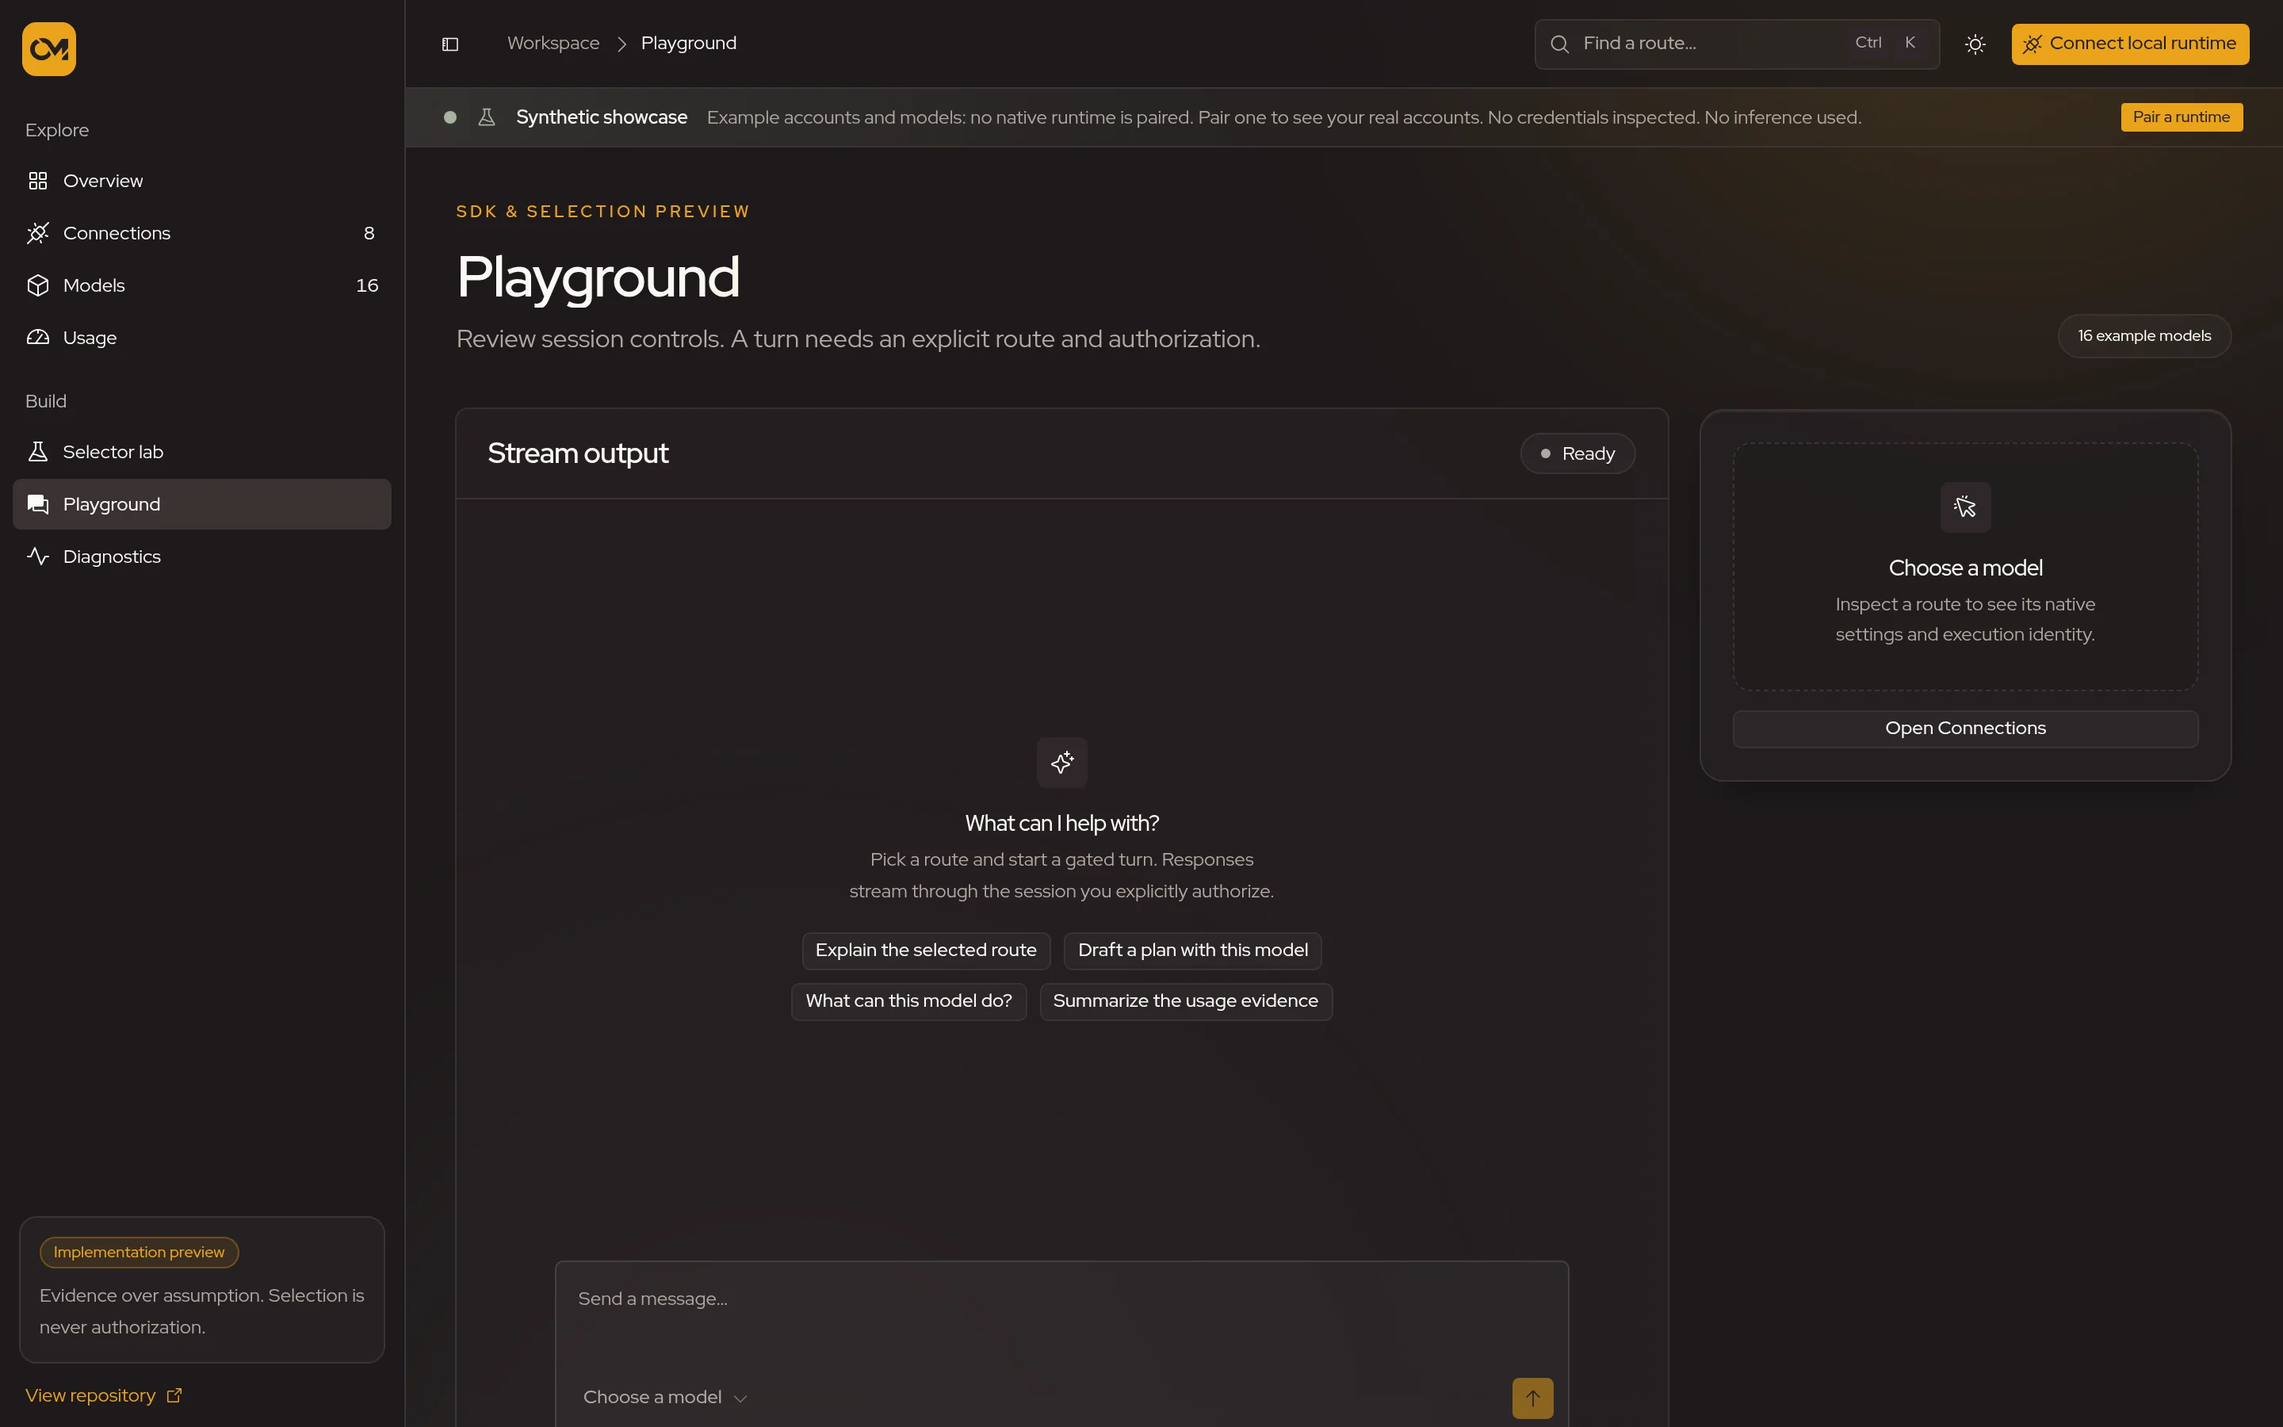
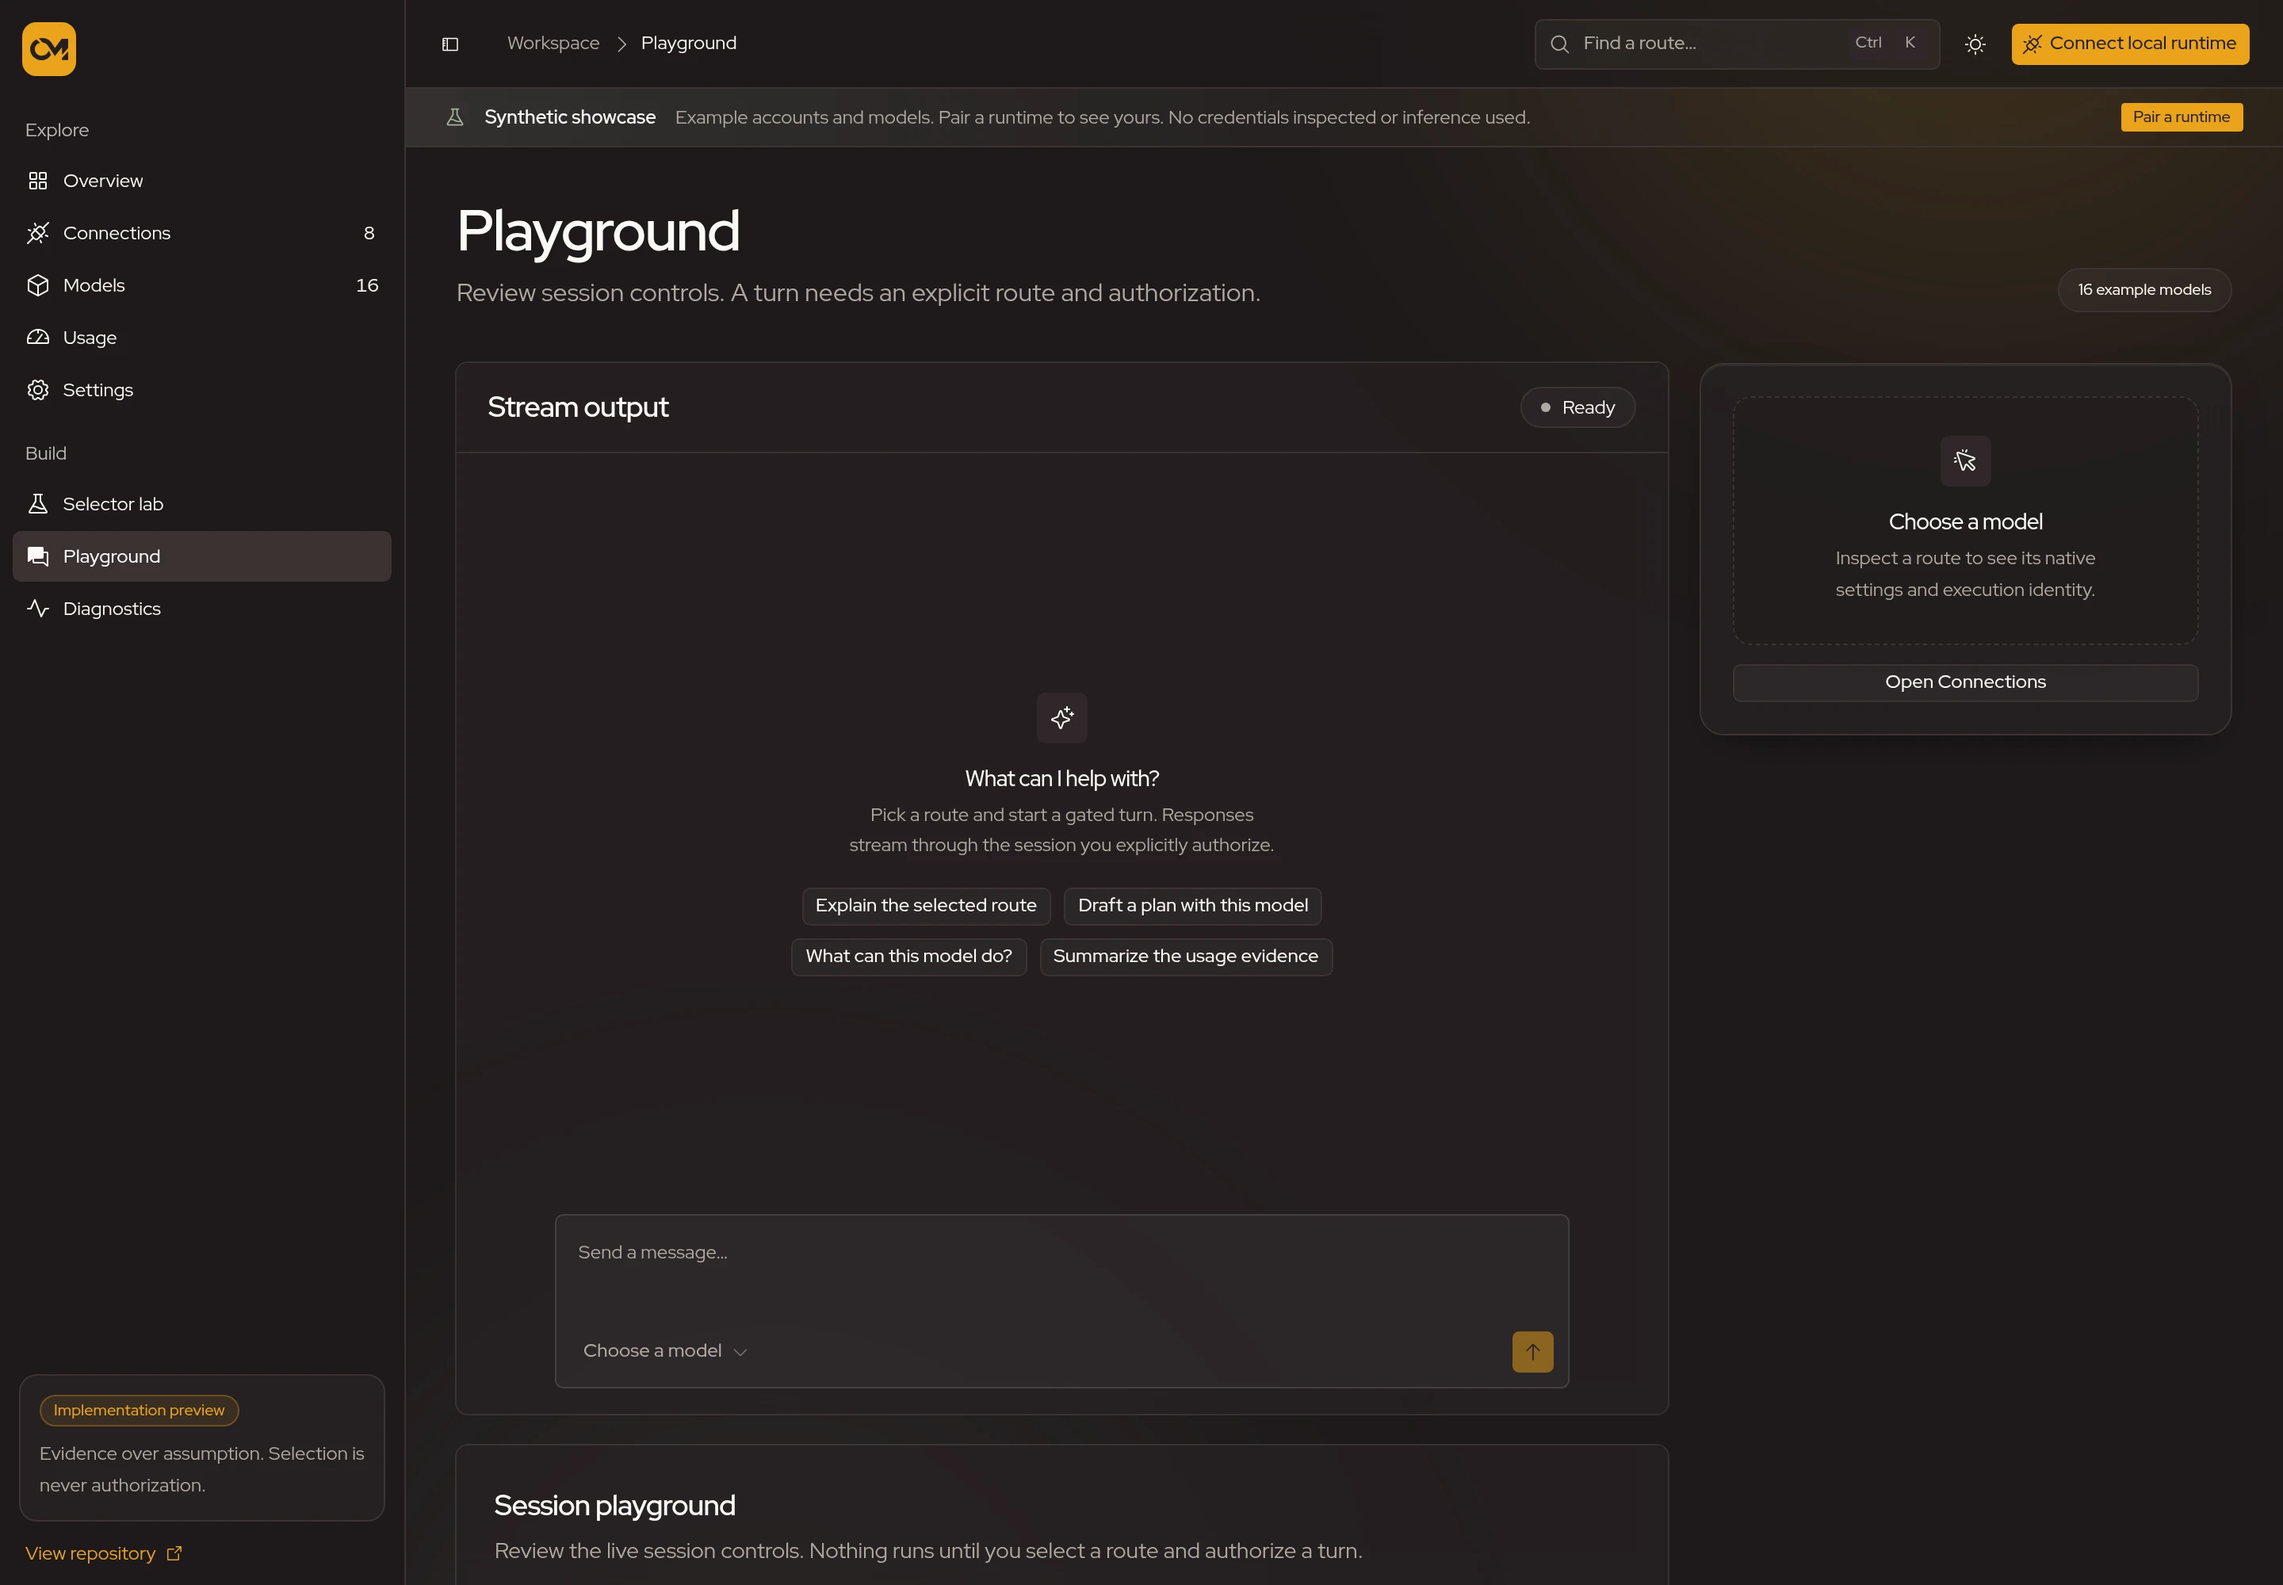
fix(site): replace permission mockups with real example app captures

diff --git a/apps/site/src/styles/site.css b/apps/site/src/styles/site.css
@@ -269,27 +269,6 @@ p { color: var(--color-muted); }
 .how-visual { min-height: 300px; }
 .shot--panel { aspect-ratio: 16 / 9.5; }
 
-.grant-card, .session-card {
-  height: 100%; min-height: 300px; padding: var(--space-xl); border: var(--rule-hair) solid var(--color-rule);
-  border-radius: var(--radius-card); background: var(--color-paper-2); color: var(--color-ink);
-}
-.grant-head { display: flex; gap: var(--space-md); align-items: center; padding-bottom: var(--space-lg); border-bottom: var(--rule-hair) solid var(--color-rule); }
-.app-icon { display: grid; place-items: center; width: 44px; height: 44px; border-radius: var(--radius-inner); background: var(--color-accent); color: var(--color-accent-ink); font-weight: 600; }
-.grant-head strong { display: block; }
-.grant-head small { color: var(--color-muted); font-size: var(--text-sm); }
-.grant-list { display: grid; }
-.grant-item { display: flex; justify-content: space-between; align-items: center; min-height: 56px; border-bottom: var(--rule-hair) solid var(--color-rule); color: var(--color-ink-2); }
-.grant-item:last-child { border-bottom: 0; }
-.grant-item .toggle { position: relative; width: 40px; height: 24px; border-radius: var(--radius-pill); background: var(--color-accent); }
-.grant-item .toggle::after { content: ""; position: absolute; top: 3px; left: 19px; width: 18px; height: 18px; border-radius: var(--radius-pill); background: var(--color-accent-ink); }
-.grant-item[data-off="true"] { color: var(--color-muted); }
-.grant-item[data-off="true"] .toggle { background: var(--color-paper-4); }
-.grant-item[data-off="true"] .toggle::after { left: 3px; background: var(--color-muted); }
-.session-line { display: grid; grid-template-columns: 110px minmax(0, 1fr); align-items: center; min-height: 48px; border-bottom: var(--rule-hair) solid var(--color-rule); }
-.session-line span { color: var(--color-muted); font-size: var(--text-sm); }
-.session-line code { color: var(--color-ink); font-size: var(--text-xs); }
-.session-stream { display: grid; gap: var(--space-xs); margin-top: var(--space-lg); font-family: var(--font-outlier); font-size: var(--text-xs); color: var(--color-live); }
-
 /* ---------- Install band, then the status surfaces ---------- */
 
 .install-band { padding-block: var(--section-gap-s) var(--section-gap); }

diff --git a/apps/site/src/sections/HowItWorks.tsx b/apps/site/src/sections/HowItWorks.tsx
@@ -57,43 +57,19 @@ function DiscoverVisual() {
 
 function GrantVisual() {
   return (
-    <div className="grant-card" aria-hidden="true">
-      <div className="grant-head">
-        <span className="app-icon" aria-hidden="true">E</span>
-        <div>
-          <strong>Example Studio</strong>
-          <small>Illustrative permission request</small>
-        </div>
-      </div>
-      <div className="grant-list">
-        {[
-          ["Usage and quota snapshot", false],
-          ["Model catalog", false],
-          ["Run sessions", false],
-          ["Workspace ~/Projects/example", true],
-        ].map(([label, off]) => (
-          <div className="grant-item" key={String(label)} data-off={off}>
-            <span>{label}</span>
-            <span className="toggle" />
-          </div>
-        ))}
-      </div>
-    </div>
+    <figure className="shot shot--panel" data-slot="runtime" data-kind="product">
+      <img src="/screens/control-center-diagnostics.webp" width={2880} height={2000} loading="lazy"
+        alt="OriginLM Diagnostics in example mode, showing runtime and grant evidence. This is not an approval prompt." />
+    </figure>
   );
 }
 
 function SessionVisual() {
   return (
-    <div className="session-card" aria-hidden="true">
-      <div className="session-line"><span>route</span><code>claude-code/subscription</code></div>
-      <div className="session-line"><span>model</span><code>native-id@7f2c</code></div>
-      <div className="session-line"><span>workspace</span><code>~/Projects/example</code></div>
-      <div className="session-stream">
-        <span>session ready, grant verified</span>
-        <span>turn started, owned cancellation</span>
-        <span>native approval requested once</span>
-      </div>
-    </div>
+    <figure className="shot shot--panel" data-slot="playground" data-kind="product">
+      <img src="/screens/control-center-playground.webp" width={2880} height={2000} loading="lazy"
+        alt="The real OriginLM Playground in example mode, ready for explicit route selection and a gated turn. No provider request has run." />
+    </figure>
   );
 }
 

diff --git a/apps/site/src/data/layers.ts b/apps/site/src/data/layers.ts
@@ -26,7 +26,7 @@ export const LAYERS: Layer[] = [
     id: "transport",
     label: "Transport",
     title: "Local transport only",
-    detail: "stdio for native helpers, IPC for embedded hosts, Native Messaging for browser extensions.",
+    detail: "stdio for owned helpers, IPC for the shared broker, Native Messaging for registered extensions.",
     meta: "stdio, IPC, Native Messaging",
   },
   {
